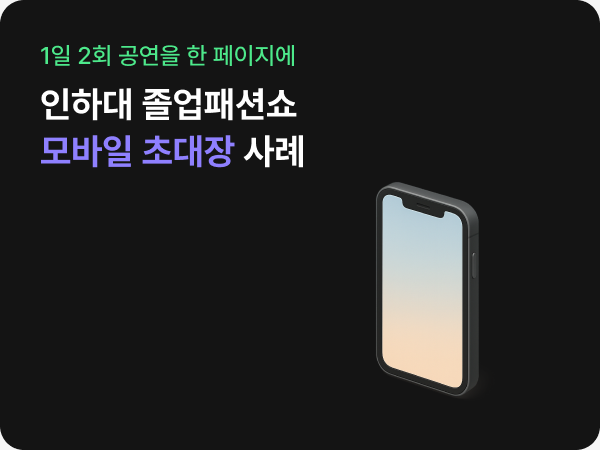
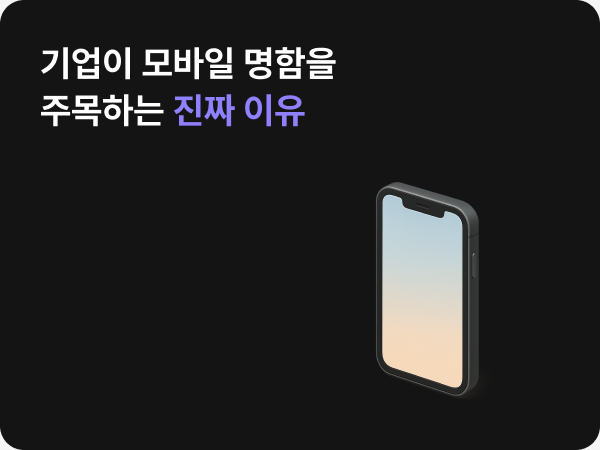
vault backup: 2026-06-14 20:29:09

Changed region(s): [[0.06, 0.0933, 0.57, 0.3733]]

diff --git a/블로그/썸네일/시안 로그/2026-06-14 기업이 모바일 명함을 주목하는 진짜 이유.md b/블로그/썸네일/시안 로그/2026-06-14 기업이 모바일 명함을 주목하는 진짜 이유.md
@@ -1,0 +1,293 @@
+---
+title: 기업이 모바일 명함을 주목하는 진짜 이유
+figma: https://www.figma.com/design/3LPfZ6a6vlJrZ4TXorVWJL/CdBd-블로그-썸네일?node-id=26-2
+created: 2026-06-14
+session: 6안 (3유형 × 2안)
+status: 사용자 검수 대기
+---
+
+# 2026-06-14 — 기업이 모바일 명함을 주목하는 진짜 이유
+
+> 사전 3원칙([[블로그/썸네일/2. 자동화 체크리스트.md|2. 자동화 체크리스트]] 최상단)대로 D + A + C 3유형 × 2안 = 6안 자동 제작 + 사용자 검수 대기.
+> Figma 출력 페이지 `26:2` 💻 AI 블로그 썸네일 제작, x=0–4100 / y=20300.
+
+---
+
+## 1. 타이틀 분석
+
+**입력**: `기업이 모바일 명함을 주목하는 진짜 이유`
+
+### 1c. 유형 결정 ([[1-2-1. 레이아웃 규칙]] §1.1)
+
+| 순위 | 유형 | 신호어 매칭 | 근거 |
+|---|---|---|---|
+| **1순위** | **D. 3D 아이콘** | "**진짜 이유**" (질문·주장형) | §1.1.D 핵심 신호어 직접 매칭. "왜/이유/진짜 이유" = D 시그니처. 기존 예시 "기업이 비공개 초대장을 고집해하는 7가지 이유"(`4648:129`)와 동일 패턴 |
+| **2순위** | **A. 목업** | "모바일 명함" (기능명) | profilelink viewer 직접 시연. 기업 B2B 톤 매칭 |
+| **3순위** | **C. 멀티 목업** | "기업" 복수 명함 비교 (암시적, 사용자 요청으로 포함) | 신호어 약했지만 사용자 요청으로 추가 → 3유형 × 2안 = 6안 |
+
+### 강조어 ([[1-1. 스타일]] §3)
+
+- **"진짜 이유"** (4자, 2어절) — 글의 약속(=답을 알려준다)이 핵심. 가이드 §3 표 직접 예시. Purple `#8F80FF`.
+- 의미 단위 1개 / 강조 영역 1개 ✅
+
+### 줄 나누기
+
+```
+기업이 모바일 명함을      ← 10자
+주목하는 진짜 이유         ← 9자 (강조어 한 줄 fit ✅)
+```
+
+- 의미 단위 끊기 ⭕ / 강조어 한 줄 안 ⭕ / 원본 텍스트 변경 ❌ / `\n`만 추가 ✅
+- 한 줄 한글 약 10–12자 권장 안 (10/9자) ✅
+
+### 서브타이틀
+
+- 입력에 마커(`-`, `/`, 시리즈명) **없음** → **서브 없음**
+- 슬롯 = 무서브 변형 (`1:1254`/`1:1274`/`1:1266`/`1:1251`/`1:1257`)
+
+### 1d. 톤 → 데코
+
+- "기업·B2B" 톤. 직접 매칭 데코 없음 → sparkle fallback
+- 안별 다른 변형 ([[1-2-1. 레이아웃 규칙#2.4]] 화이트리스트 `4:166`/`4:165`/`4:164`)
+
+---
+
+## 2. 6안 패키지 매트릭스
+
+| 안 | 유형·변형 | 슬롯 ID | Figma 노드 | 자산 | 차별 축 |
+|---|---|---|---|---|---|
+| **1** | D 상단 | `1:1254` | `406:295` | thiings **mobile-phone** | 모바일 명함 직접 매칭 |
+| **2** | D 하단 | `1:1274` | `406:298` | thiings **wallet** | 명함·기업 톤, 다른 아이콘 |
+| **3** | A 상단 + sparkle2(`4:166`) | `1:1266` | `406:301` | viewer **`profilelink/corporate`** (FINDERS, ESG 팀장 김서현) | B2B 기업 정체성 hero |
+| **4** | A 하단 + sparkle3(`4:165`) | `1:1251` | `406:305` | viewer **`profilelink/sales`** (STech Energy 영업 김도현) | 영업 명함, 슬로건 + 인물 |
+| **5** | C 상단 | `1:1257` | `406:308` | corporate + sales + **promotion** (A1 시큐리티) | B2B 영업 트리오 |
+| **6** | C 상단 | `1:1257` | `406:313` | corporate + **campaign** (GreenWave) + **intake** (이력서 컨설팅) | 다양한 산업 트리오 |
+
+### 사전 3원칙 충족 ✅
+- **① 유형 다중**: D 2 + A 2 + C 2 = **3유형 × 2안 = 6안**
+- **② 캡처 영역 다양화**: 5개 다른 viewer hero (corporate/sales/promotion/campaign/intake) + D는 다른 의미의 3D 아이콘
+- **③ 3D 아이콘 다양화**: mobile-phone vs wallet — 매번 같은 이모지 ❌
+
+---
+
+## 3. 자산 인벤토리
+
+### 3.1. thiings 3D 아이콘 (D 안 1·2)
+
+| 슬러그 | 검증 | 다운로드 URL | imageHash (Figma) | 사용 |
+|---|---|---|---|---|
+| `mobile-phone` | ✅ 200 | `https://lftz25oez4aqbxpq.public.blob.vercel-storage.com/image-4InIbjutnVbO2RgfQjb4X5InSQnbWH.png` | `498161057c43c9a317fb1ec1bce26c42de4a1983` | D 안 1 |
+| `wallet` | ✅ 200 | `https://lftz25oez4aqbxpq.public.blob.vercel-storage.com/image-r5QxxRu1dvIND6CpaRBYLTnJmCfzNM.png` | `1586c333b78031b330f7250d03ba0ce121573835` | D 안 2 |
+| `business-card` | ❌ 404 | — | — | wallet으로 대체 |
+| `credit-card` | ✅ 200 (참고) | — | — | 미사용 |
+
+**슬러그 검증 명령**:
+```bash
+curl -s "https://www.thiings.co/things/{slug}" -A "Mozilla/5.0" \
+  | grep -oE 'https://[^"]*vercel-storage[^"]*\.png' | head -1
+```
+
+### 3.2. Microlink viewer 캡처 (A 안 3·4 + C 안 5·6)
+
+**모든 캡처**: viewport 375×827, full-page=false, waitUntil=networkidle0, waitForTimeout=5000 → PNG 750×1654 (retina 2x), 비율 0.4534 ≈ mockup screen 0.4535 → **FILL center crop 잘림 0** ([[1-3-2. 이미지 출처]] §2 정책).
+
+| viewer | 캡처 결과 | imageHash | 사용 안 | 잘림 |
+|---|---|---|---|---|
+| `profilelink/corporate` (FINDERS · 김서현 ESG 팀장) | 750×1654, 199KB | `67e2ba50d6290c1c2f15112535792fd8bf6fa8ad` | A3 / C5 m1 / C6 m1 | 0 |
+| `profilelink/sales` (STech Energy · 김도현) | 750×1654, 343KB | `9a66af5d6cbaa53bf2e008a246edafd7c82f8ea7` | A4 / C5 m2 | 0 |
+| `profilelink/promotion` (A1 시큐리티 · 김우성) | 750×1654, 237KB | `910313b5a7f0559b3408285f2d13e0e10b5e6208` | C5 m3 | 0 |
+| `profilelink/campaign` (GreenWave · 김도현) | 750×1654, 566KB | `0c31b97841be0d153d349e169dccb506fb2f6ea5` | C6 m2 | 0 |
+| `profilelink/intake` (이력서·자소서 컨설턴트 · 이희진) | 750×1654, 642KB | `397912689d2cfd67656138518bbc86e70531373f` | C6 m3 | intake는 504 1회 실패 → `waitUntil=load`+`waitForTimeout=7000` 재시도 성공 |
+
+**Microlink 호출 패턴**:
+```bash
+curl -sG "https://api.microlink.io/" \
+  --data-urlencode "url=https://www.cdbd.in/templates/profilelink/{slug}/viewer" \
+  --data-urlencode "screenshot=true" --data-urlencode "meta=false" \
+  --data-urlencode "viewport.width=375" --data-urlencode "viewport.height=827" \
+  --data-urlencode "waitUntil=networkidle0" --data-urlencode "waitForTimeout=5000" \
+  --data-urlencode "force=true"
+# → response.data.screenshot.url → curl 다운로드
+```
+
+### 3.3. Figma 컴포넌트 (재사용)
+
+| 노드 | 역할 | 사용 |
+|---|---|---|
+| `75:34` | 원페이지 목업-1 (모바일 mockup symbol, 197.36×415.49) | A3·A4 (rescale 0.9728) + C5·C6 ×3 (rescale 0.7245) |
+| `4:166` | sparkle2 | A3 DECO (75×75 at 503.5/58.5) |
+| `4:165` | sparkle3 | A4 DECO (75×75 at 503.5/58.5) |
+
+---
+
+## 4. 빌드 워크플로우 (사후 정리)
+
+> 실제 use_figma 호출 순서. 다음 세션에서 같은 패턴 재사용 가능.
+
+### Step 1. 진입 — 가이드·스킬 로드
+
+- [[블로그/썸네일/2. 자동화 체크리스트.md|2. 자동화 체크리스트]] 최상단 사전 3원칙 / 텍스트 절대 원칙 의식
+- [[1-2-1. 레이아웃 규칙]] §1.1 신호어 매칭으로 유형 결정
+- [[1-2-2. 레이아웃별 레퍼런스 노드]] / [[1-3-1. 이미지 규칙]] / [[1-3-2. 이미지 출처]] 참고
+- `skill://figma/figma-use/SKILL.md` MANDATORY (use_figma 호출 전)
+
+### Step 2. 자산 수집
+
+- **thiings 슬러그 검증·다운로드** → `.temp/thiings-{slug}.png`
+- **Microlink 캡처** (375×827) → `.temp/viewer-{slug}.png`
+- **시각 확인** (사전 3원칙 §② 사람 관점 분석) — Read 도구로 PNG 미리보기
+
+### Step 3. Figma 업로드 — `mcp__claude_ai_Figma__upload_assets`
+
+- count=5 최대 / 받은 submitUrl에 `curl -F file=@x.png` POST → response의 `imageHash` 추출
+- ⚠ 업로드는 부산물로 **첫 페이지(`1:1245` 슬롯 페이지)에 임시 frame** 생성됨 → **마지막에 정리 필수**
+
+### Step 4. 스켈레톤 빌드 — use_figma 호출 #1
+
+```
+1) 첫 페이지(loaded by default) currentPage에서:
+   - 업로드 placeholder frames 정리 (`398:2` ~ `404:2` 등)
+   - 6개 슬롯 master 노드 `await getNodeByIdAsync` (loaded)
+2) await setCurrentPageAsync(outputPage 26:2)
+3) 각 master.clone() → outputPage.appendChild → 이름·x·y 설정
+4) return { created: [{id, name, x, y}] }
+```
+
+**배치 좌표 (이번 세션)**: `baseX=0 baseY=20300 gap=100`, 6개 한 줄 (x=0/700/1400/2100/2800/3500).
+
+### Step 5. D 유형 채우기 — use_figma 호출 #2
+
+```
+- TITLE: 폰트 로드 → characters set → 흰색 fills → setRangeFills(17, 22, [purple])
+- 하단 변형: title.y = 410 - title.height (bottom-anchor)
+- VISUAL_SLOT: fills = [IMAGE FIT mode, imageHash], strokes = []
+```
+
+### Step 6. A 유형 채우기 — use_figma 호출 #3
+
+```
+- TITLE: 동일 패턴
+- VISUAL_SLOT pos/effects 캡처 → mockup INSTANCE 생성
+  - rescale(visual.width / inst.width) — 192/197.36 ≈ 0.9728
+  - 위치 visual.x/y
+  - effects = slot.effects (보라 글로우 — A 한정)
+  - screen rect (#FAFAFA, 비율 0.4535) 식별 → IMAGE FILL fill
+  - visual.remove()
+- DECO: sparkle INSTANCE → rescale(0.75) → x=503.5 y=58.5
+```
+
+### Step 7. C 유형 채우기 — use_figma 호출 #4
+
+```
+- TITLE: 동일 패턴 (C 상단 — y=40 고정)
+- VISUAL_SLOT_1/2/3 각각:
+  - mockup INSTANCE → rescale(slot.w / 197.36) — 143/197.36 ≈ 0.7245
+  - 위치 slot.x/y
+  - effects = [] (⚠ C 유형은 보라 글로우 ❌ — A 한정)
+  - screen rect IMAGE FILL fill
+  - visual.remove()
+- DECO ❌ (가이드 §1.1.C — 멀티 mockup 자체가 시각 임팩트)
+```
+
+### Step 8. 검수 — get_screenshot ×6
+
+- 각 frame 600×450 PNG → vault `.temp/final-*.png`
+- 사용자 검수 항목 4가지 ([[2. 자동화 체크리스트]] §🚦) 점검
+
+---
+
+## 5. 발견·수정 사항 (사고 기록)
+
+### 사고 #1 — A3 텍스트 줄 깨짐 (해결)
+
+**증상**: A3(slot `1:1266` A 상단) TITLE이 "기업이 모바일 명함 / 을 / 주목하는 진짜 이유" **3줄로 깨짐**. 같은 텍스트로 D1·D2·A4·C5·C6는 정상 2줄.
+
+**원인 진단**:
+
+| 슬롯 | 디폴트 TITLE width | textAutoResize | 결과 |
+|---|---|---|---|
+| `1:1254` D 상단 | 297 | `WIDTH_AND_HEIGHT` | ✅ 2줄 (auto-hug with `\n`) |
+| `1:1274` D 하단 | 297 | `WIDTH_AND_HEIGHT` | ✅ 2줄 |
+| **`1:1266` A 상단** | **285** | **`HEIGHT`** | ❌ 첫 줄 "기업이 모바일 명함을" 10자 > 285px → "을" 다음 줄 강제 wrap |
+| `1:1251` A 하단 | 297 | `WIDTH_AND_HEIGHT` | ✅ 2줄 |
+| `1:1257` C 상단 | 484 | `HEIGHT` | ✅ 2줄 |
+
+→ 슬롯 원본 `1:1266`의 TITLE width 디폴트가 285(서브 변형 기준) — A 상단·서브(`1:1269`)와 혼동된 것 같음. 가이드 §3 "A·B·D·E TITLE 350px"와 불일치.
+
+**해결**: 모든 안에 명시적 `textAutoResize = "HEIGHT"` + `resize(targetW, height)` (D/A=350, C=484) 강제 후 characters 재반영.
+
+**룰 갱신 후보**:
+- [[1-2-1. 레이아웃 규칙]] §3.1 슬롯 좌표 표에 TITLE width 명시 (각 슬롯 디폴트 일치 검증)
+- 자동화 코드: **TITLE width 항상 강제** (`textAutoResize=HEIGHT` + `resize(targetW, h)` + characters 순서)
+- [[2. 자동화 체크리스트]] §자주 놓치는: "TITLE width — 슬롯 원본 디폴트 신뢰 ❌ / 항상 명시 강제 ⭕" 추가
+
+### 사고 #2 — C 멀티 mockup에 보라 글로우 잘못 적용 (해결)
+
+**증상**: C 안 5·6의 3 mockup INSTANCE에 보라 `#6C4CFF` glow가 입혀짐. 가이드 §3.1는 **A 유형 슬롯 한정** (`1:1267`/`240:236`/`240:240`/`240:238`)으로 명시.
+
+**원인**: A 유형 빌드 코드에서 사용한 fallback 패턴
+```js
+const vEffects = visual.effects && visual.effects.length ? [...visual.effects] : [GLOW];
+inst.effects = vEffects;
+```
+를 C 유형 빌드에 그대로 복붙. C 슬롯 VISUAL_SLOT_n은 effects 없음 → fallback이 GLOW 강제.
+
+**해결**: C 5·6의 mockup INSTANCE 6개에 `inst.effects = []` 명시.
+
+**룰 갱신 후보**:
+- 자동화 코드: GLOW fallback **금지**. `inst.effects = visual.effects || []` (슬롯 effects만 그대로 복사).
+- [[2. 자동화 체크리스트]] §자주 놓치는: "글로우 effect — 슬롯에 박힌 것만 복사, fallback ❌. A 한정 룰 ([[1-2-1. 레이아웃 규칙]] §3.1)" 추가
+- 더 깊은 룰: 인스턴스 effect 적용은 "타입 화이트리스트" 추가 — A 유형일 때만 GLOW 허용.
+
+### 부수 관찰
+
+- **C mockup 높이 모자람**: rescale 0.7245 → h=301 vs slot h=340 (39px 빈공간 하단). 슬롯 정의는 "하단 블리드" 의도였지만 원페이지 75:34는 비율 2.105로 슬롯 비율 2.378보다 짧음. 시각적으로 큰 문제는 아니지만 멀티페이지 mockup `1:1370` (비율 2.277) 사용이 더 자연. 단, 본 사례는 단일 페이지 viewer hero라 75:34 적합.
+- **upload_assets 부산물 frame**: 매번 7개 frame이 첫 페이지(슬롯 페이지)에 생성됨 → 빌드 첫 호출에서 정리 (`getNodeByIdAsync` + `.remove()`).
+
+---
+
+## 6. 사용자 검수 (4가지)
+
+> [[2. 자동화 체크리스트]] §🚦 자동화 후 수동 확인 항목.
+
+| # | 항목 | 결과 |
+|---|---|---|
+| 1 | 이미지가 타이틀의 진짜 의미를 담고 있나? | ✅ 6안 모두 매칭 — D는 명함·지갑 / A는 기업 명함 hero 2종 / C는 B2B 트리오 vs 다양한 산업 |
+| 2 | 줄바꿈 자연스러운가? 강조어 한 줄에? | ✅ 6안 모두 "기업이 모바일 명함을 / 주목하는 **진짜 이유**" 2줄, "진짜 이유" 한 줄 안 |
+| 3 | 시각적 균형 한쪽으로 쏠리지 않았나? | ✅ D는 대각선 / A는 좌 텍스트 + 우 mockup + sparkle / C는 상 텍스트 + 하 3 mockup |
+| 4 | 6안 중 어느 게 가장 적합? | 🔍 사용자 선택 대기 |
+
+---
+
+## 7. 다음 단계
+
+- [ ] 사용자가 6안 중 1개 선택
+- [ ] 선택한 안 → 🎨 블로그 썸네일 페이지 (`0:1`)로 이동 (발행본 보관)
+- [ ] 사고 #1·#2 룰 갱신 ([[1-2-1. 레이아웃 규칙]] §3.1 / [[2. 자동화 체크리스트]] §자주 놓치는)
+- [ ] 사용 이력 기록 — [[1-3-2. 이미지 출처]] §2.1 표의 corporate/sales/promotion/campaign/intake 사용 이력 셀에 "2026-06-14" 추가 검토
+
+---
+
+## 부록 A. Figma 출력 페이지 좌표 인덱스
+
+```
+26:2 💻 AI 블로그 썸네일 제작 (y=20300 row)
+├── 406:295  안1_D상단_mobile-phone    (x=0)
+├── 406:298  안2_D하단_wallet          (x=700)
+├── 406:301  안3_A상단_corporate        (x=1400)
+├── 406:305  안4_A하단_sales            (x=2100)
+├── 406:308  안5_C상단_corp-sales-promo (x=2800)
+└── 406:313  안6_C상단_corp-camp-intake (x=3500)
+```
+
+## 부록 B. 캡처 결과 PNG 위치
+
+`.temp/` 폴더 (gitignore, 임시):
+
+| PNG | 내용 |
+|---|---|
+| `thiings-mobile-phone.png` / `thiings-wallet.png` | D 안 1·2 자산 원본 |
+| `viewer-corporate.png` ~ `viewer-intake.png` | A·C viewer hero 캡처 5종 |
+| `final-d1.png` ~ `final-c6.png` | 최초 빌드 후 6안 스크린샷 |
+| `fix-a3.png` / `fix-a4.png` | 사고 #1 수정 후 A3 재확인 |
+| `fix2-c5.png` / `fix2-c6.png` | 사고 #2 수정 (글로우 제거) 후 C 재확인 |

diff --git a/블로그/썸네일/2. 자동화 체크리스트.md b/블로그/썸네일/2. 자동화 체크리스트.md
@@ -93,7 +93,7 @@ updated: 2026-06-04
 
 > 위 §텍스트 삽입 절대 원칙을 통과한 후 추가로 더블체크할 항목:
 
-1. **타이틀 → 레이아웃 선정 ([[1-2-1]] §1.1)** — 임의 추측 ❌ / 가이드 신호어 매칭 ⭕. **유형 다중 선택 룰은 → 사전 3원칙 §①** (단일 유형 ❌, 유형 2-3개 × 1-2안 = 4-6안).
+1. **타이틀 → 레이아웃 선정 ([[1-2-1]] §1.1)** — 임의 추측 ❌ / 가이드 신호어 매칭 ⭕. **유형 다중 선택 룰은 → 사전 3원칙 §①**.
 2. **가이드 표 그대로 사용** — 키워드 매핑은 [[1-3-2]] §5.1·§5.4 표만 인용. 코드/즉석 추가 ❌
 3. **보조 3D 아이콘은 Thiings에서** — AI 생성 ❌ / [[1-3-2. 이미지 출처]] §4.1 카탈로그 사용 ⭕
 4. **서브타이틀 — 통일 정책: A·B·D 모두 width 285 + 최대 2줄. 1줄 가로 자동폭 예외는 C 멀티(`1:1287`)에만** (2026-06-12 재정립) — 직전 "상단·서브 width 460/1줄" 룰을 PICOHI 사례에서 사용자 지적으로 폐기. mockup이 큰 단일 덩어리인 A·B·D에서는 긴 서브 1줄 가로가 시각 균형 ❌. C 멀티(`1:1287`)는 mockup 3개가 y=199~로 세로 분리되는 구조적 특수성에서만 1줄 가로 자동폭 안전.
@@ -126,7 +126,7 @@ updated: 2026-06-04
    - **② 톤 매칭 없을 때만 sparkle** (`4:166/4:165/4:164` 라운드 로빈으로 다양성) — fallback
    - **③ 같은 시안 안에서도 변형 권장** — 안 1과 안 2에 다른 데코 (가이드 §5.4 다양성)
    - **사례**: 2026-06-12 INHA·MASTERS·PICOHI 시안이 모두 sparkle2/3 반복만 사용 → 시각 단조 → 룰 정착. 다음 시안부터는 톤 신호어 우선 매칭 + sparkle은 진짜 매칭 없을 때만.
-   - 📌 **D 유형(3D 아이콘) 자체의 다양화 룰은 → 사전 3원칙 §③** (thiings 신규 다운로드, 매번 같은 이모지 ❌).
+   - 📌 **D 유형(3D 아이콘) 자체의 다양화 룰은 → 사전 3원칙 §③**.
 8. **외부 사례 URL 요청 — A·C 한정, 카탈로그 외 케이스만** (2026-06-12 추가) — 타이틀이 명백히 **CdBd 카탈로그 외 사례**(타사 비교·외부 사례·클라이언트 사이트)일 때만 사용자에게 viewer URL 직접 요청. **카탈로그([[1-3-2. 이미지 출처]] §5.2 17개 viewer) 매핑 가능한 사례는 ❌ 절대 외부 URL로 대체하지 않음** (가이드 우선 원칙).
    - A: "viewer URL을 알려주세요"
    - C: "비교할 사이트 N개 URL을 순서대로 알려주세요"
@@ -148,18 +148,16 @@ updated: 2026-06-04
    - 상세 공식·예시 → [[1-3-1. 이미지 규칙]] §1.1.c
    - **사고 사례**: 2026-06-12 AIC 올인컴플리트 시안 — y-scale=1 누락으로 모자 grid가 가로 늘어남. y-scale=0.205 적용 후 정상 비율.
 
-10. 🔴 **viewer ↔ mockup 매칭 — 사람이 브라우저로 보고 파악 필수** (2026-06-12 추가, ⭐ 중요) — **자동 캡처만으로 매칭 결정하지 말 것**. **사람 관점 분석·캡처 다양화 룰은 → 사전 3원칙 §②**. 아래는 디테일 절차:
-   1. **페이지 수**: 단일 페이지 (스크롤형) vs 멀티페이지 (swiper)
-   2. **구조**: hero 위치 / 상품 페이지 위치 / 페이지네이션 형태 / 페이지별 컨텐츠
-   3. **mockup 매칭 필수**:
+10. 🔴 **viewer ↔ mockup 매칭 디테일** (2026-06-12 추가, ⭐ 중요) — **사람 관점 분석·캡처 다양화 룰은 → 사전 3원칙 §②**. 아래는 자동화 디테일만:
+   1. **mockup 매칭 필수**:
       - **단일 페이지 viewer** → **원페이지 mockup `75:34`** ([[1-3-1. 이미지 규칙]] §1.1.a)
       - **멀티페이지 viewer (swiper)** → **멀티페이지 mockup `1:1370`** ⭐ — 가이드 §1.1.a "카탈로그·룩북·매거진" 매핑 표 그대로
       - ❌ 멀티페이지 viewer를 원페이지 mockup에 fill = 의미 매칭 어긋남 (시각적으로는 작동해도 메시지 부합 안 함)
-   4. **캡처 결과 시각 확인**: 자동 캡처 후 mockup fill 전에 PNG를 직접 보고 페이지네이션·상단 빈 영역·하단 잘림 등 확인 → 필요 시 PIL 후처리 ([[1-3-2. 이미지 출처]] §2 멀티페이지 정책)
-   5. **mockup screen rect 비율 매칭 + 식별** ⭐ (2026-06-12 추가) — 같은 캡처 PNG를 다른 mockup에 fill해도 비율 다르면 잘림. **mockup 종류별 PIL crop 비율 분기**:
+   2. **mockup screen rect 비율 매칭 + 식별** ⭐ — 같은 캡처 PNG를 다른 mockup에 fill해도 비율 다르면 잘림. **mockup 종류별 PIL crop 비율 분기**:
       - 원페이지 (75:34): `TARGET_RATIO = 0.4535` (세로 김)
       - 멀티페이지 (1:1370): `TARGET_RATIO = 0.6484` (중앙 띠, 정사각형에 가까움) ⭐
-   6. **screen rect 식별 — 첫 발견 rect ❌, 비율 기반 ⭕** (2026-06-12 추가) — 멀티페이지 mockup(1:1370)은 안에 **2개 fillable rect** (phone 0.4392 + 진짜 screen 0.6484). `findOne`으로 첫 회색 rect에 fill하면 phone에 잘못 fill됨. **비율 0.6484에 가장 가까운 rect**에만 fill. 자세한 의사코드 → [[1-3-1. 이미지 규칙]] §1.1.a.
+   3. **screen rect 식별 — 첫 발견 rect ❌, 비율 기반 ⭕** — 멀티페이지 mockup(1:1370)은 안에 **2개 fillable rect** (phone 0.4392 + 진짜 screen 0.6484). `findOne`으로 첫 회색 rect에 fill하면 phone에 잘못 fill됨. **비율 0.6484에 가장 가까운 rect**에만 fill. 자세한 의사코드 → [[1-3-1. 이미지 규칙]] §1.1.a.
+   4. **PIL 후처리 / 재캡처 분기** — 자동 캡처 PNG에 페이지네이션·상단 빈 영역·하단 잘림이 있으면 PIL 후처리 ([[1-3-2. 이미지 출처]] §2 멀티페이지 정책).
 
    **사고 사례** (2026-06-12 AIC 카탈로그 시안):
    - **#1**: 멀티페이지 viewer를 원페이지+멀티페이지 mockup 둘 다 fill → 사용자 지적 "멀티페이지는 무조건 멀티페이지 mockup". 원페이지 시안 삭제 → 멀티페이지만 유지.
@@ -266,4 +264,5 @@ updated: 2026-06-04
 | 2026-06-12 | **C 유형(멀티 목업) 슬롯 변경 반영** — §자주 놓치는 #4 표에서 C 멀티·상단·서브 행 갱신: ① TEXT_BLOCK 266×135 고정 / SUBTITLE width **222** + TITLE width **266** / 둘 다 1~2줄 우선 ② 서브 변형 VISUAL_SLOT y +24 내림(215→**239** / 175→**199** / 215→**239**) — 텍스트 영역 확보 ③ no-sub 변형(`1:1257`)은 TITLE width **484**. 옛 `WIDTH_AND_HEIGHT` 자동폭 룰 폐기 (슬롯 폭 고정으로 변경됨). 판단 절차 C 분기 갱신 — 11~12자 초과 시 사용자 축약 요청 필수. 상세는 [[1-2-1. 레이아웃 규칙]] §3.4. |
 | 2026-06-12 | **#5 강조어 룰 재정립 — "단어 1개" 폐기, "강조 영역 1개 + 의미 단위 1개"** — 기존 "키워드 1개" 표현이 단어 수 제한으로 오해되던 문제 해소. 사람이 읽는 것처럼 의미 단위로 선정 (단어 1개일 수도, 한 구(phrase)일 수도). 영역만 1개 (시각 균형). 예: "5분에 만드는 법" ⭕ (4어절 한 의미 단위) / "**5분**에 만드는 **법**" ❌ (영역 2개 분리) / "5분에 **만드는**" ❌ (의미 단위 잘림). [[1-1. 스타일]] §3 우선순위 표를 "참고용 유형 표"로 격하 (직관 우선) + [[3. 검수 체크리스트]] ④ 동기화. |
 | 2026-06-12 | **#4 C 멀티·상단·서브 — TEXT_BLOCK width 460 확장 허용 + 단일 페이지 viewer 섹션 분할 패턴** (INHA 시안 검증) — ① 기존 "TEXT_BLOCK 266 고정"을 "266 기본 / 460 확장"으로 갱신 — mockup_2 y=199와 세로 분리 24px 여유로 시각 충돌 ❌. 17자 INHA TITLE "인하대 졸업패션쇼\n모바일 초대장 사례" width 460 + 2줄 ⭕ ② 판단 절차 3단계 "C 분기" 갱신 (자동폭 폐기, 460 확장으로). 상세는 [[1-2-1. 레이아웃 규칙]] §3.4 + [[1-3-1. 이미지 규칙]] §1.1.b 신규 절(섹션 분할 fill 패턴). |
+| 2026-06-14 | **사전 3원칙과 §자주 놓치는 핵심 항목 중복 제거** — ① #1 괄호("단일 유형 ❌, 유형 2-3개 × 1-2안") 제거 → 사전 3원칙 §①로 일원화 ② #7 D 유형 괄호("thiings 신규 다운로드, 매번 같은 이모지 ❌") 제거 → 사전 3원칙 §③로 일원화 ③ #10 페이지 수·구조·캡처 결과 시각 확인 항목 제거 (사전 3원칙 §② 확인 항목·검토 절차와 중복) → 자동화 디테일(mockup 매칭·screen rect 비율·rect 식별·PIL 후처리)만 남김. |
 | 2026-06-12 | **🚨🚨🚨 시안 제작 사전 3원칙 최상단 신설** — 사용자 요청: "썸네일 만들기 전 3가지를 제일 인식하고 들어가게끔 체크리스트에 제일 강조". 텍스트 절대 원칙 위에 신설: ① 레이아웃 유형 2-3개 × 각 유형별 1-2안 (단일 유형 ❌) ② 캡처 영역 다양화 — 사람 관점 분석 + 안마다 다른 영역 ③ 3D 아이콘 다양화 — 매번 같은 이모지 ❌, 타이틀 매칭 thiings 신규 다운로드. 같은 실수 반복 패턴(INHA·MASTERS·PICOHI 등) 차단용. 기존 §자주 놓치는 #1·#7·#10 중복은 "→ 사전 3원칙 §N 참조"로 단순화. [[3. 검수 체크리스트]] ⓪에도 자가 점검 항목으로 1:1 동기화. |

diff --git a/블로그/썸네일/3. 검수 체크리스트.md b/블로그/썸네일/3. 검수 체크리스트.md
@@ -85,13 +85,10 @@ updated: 2026-06-12
 - 모든 슬롯 노드 순회 — `strokes` 비어있고 임시 회색 fill 없는지.
 - ❌ 점선 stroke 그대로 출력 / 빈 fills 슬롯 노출.
 
-### ☐ ⑦ 베리에이션 4–6안 출력 (2026-06-12 갱신)
-- **유형 2-3개 × 각 유형별 2안 = 4-6안** ([[1-2-1]] §1, [[1-3-1]] §0).
-  - A·B·D: 상단·서브 + 하단·서브 = 2안
-  - C: 다른 자산 조합 2안
-  - E: 다른 자산 2안
-- ❌ 단일 유형만 (이전 2-4안 패키지) / 7안 이상.
-- **💻 AI 블로그 썸네일 제작 (`26:2`)** 페이지에 있는가. 슬롯 원본 페이지(🧩 `1:1245`)에 부착됐으면 ❌.
+### ☐ ⑦ 출력 페이지 + 유형별 안 패턴 확인
+- **출력 페이지**: 시안이 **💻 AI 블로그 썸네일 제작 (`26:2`)** 페이지에 있는가. 슬롯 원본 페이지(🧩 `1:1245`)에 부착됐으면 ❌.
+- **유형별 안 패턴**: A·B·D는 상단·서브 + 하단·서브 / C·E는 다른 자산 조합 2안.
+- 📌 4-6안 총량·유형 다중 룰은 → **⓪-①** 참조 (중복 방지).
 
 ### ☐ ⑧ 데코 다양성 — 톤 매칭 우선·sparkle 단조 반복 ❌ (2026-06-12 추가)
 **과거 사고**: INHA·MASTERS·PICOHI 시안 모두 sparkle2/3만 라운드 로빈 → 시각 단조.
@@ -132,4 +129,5 @@ updated: 2026-06-12
 | 2026-06-12 | **⑧ 데코 다양성 추가** — INHA·MASTERS·PICOHI 시안이 sparkle2/3만 반복 → 시각 단조 사용자 지적. 톤 매칭(§1d) 우선 / sparkle은 fallback / 안별 변형 권장. 7개 → 8개. |
 | 2026-06-12 | **⑦ 베리에이션 룰 갱신 — 2-4안 → 4-6안 (유형 2-3개 × 2안)** — 단일 유형 ❌ / 신호어 1·2·3순위 유형 다중 비교 룰 전환. 사용자 결정에 따라 가이드 0/1-2-1/1-3-1/자동화/검수 모두 통일. |
 | 2026-06-12 | **④ 강조 영역 룰 갱신 — "키워드 1개" → "강조 영역 1개 + 의미 단위 1개"** — 단어 수 제한 폐기. 사람이 읽는 것처럼 의미 단위로 선정 (단어 1개일 수도, 한 구(phrase)일 수도). 예: "5분에 만드는 법" ⭕ (4어절 한 의미 단위) / "**5분**에 만드는 **법**" ❌ / "5분에 **만드는**" ❌. [[1-1. 스타일]] §2·§3 + [[블로그/썸네일/2. 자동화 체크리스트.md\|자동화 체크리스트]] §자주 놓치는 #5와 동기화. |
+| 2026-06-14 | **⓪-①과 ⑦ 중복 제거** — ⑦ "유형 2-3개 × 각 유형별 2안 = 4-6안 / 단일 유형 ❌" 룰이 ⓪-①의 완전 반복이라 ⑦에서 제거. ⑦은 출력 페이지(`26:2`) 확인 + 유형별 안 패턴(상·하서브 vs 자산 조합)만 남기고, 다중 유형 총량 룰은 → ⓪-① 참조. |
 | 2026-06-12 | **⓪ 시안 제작 사전 3원칙 자가 점검 최상단 신설** — 사용자 요청: "썸네일 만들기 전 3가지를 제일 인식하고 들어가게끔 체크리스트에 제일 강조". ⓪-① 유형 2-3개 다중 / ⓪-② 캡처 영역 다양화 (사람 관점) / ⓪-③ 3D 아이콘 다양화 (thiings 신규). 같은 실수 반복 패턴(INHA·MASTERS·PICOHI 등) 차단. [[블로그/썸네일/2. 자동화 체크리스트.md\|자동화 체크리스트]] §사전 3원칙과 1:1 매칭. |
